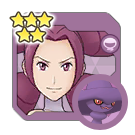
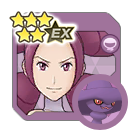
Add v2.27.0

Changed region(s): [[0.2963, 0.0889, 0.5926, 0.3556], [0.2963, 0.0889, 0.3259, 0.1185]]

diff --git a/js/syncpairs.js b/js/syncpairs.js
@@ -774,7 +774,36 @@ export const SYNCPAIRS = [
 		"tags": [
 			"Gen Pool - First-time Scout (Until 2.21.0 update)",
 			"isWoman",
-			"Gym Leader"
+			"Gym Leader",
+			"Multiple Units"
+		]
+	},
+	{
+		"dexNumber": "012",
+		"trainerName": "Whitney",
+		"trainerAlt": "Holiday (2022)",
+		"pokemonNumber": "0586",
+		"pokemonName": "Sawsbuck",
+		"pokemonGender": "♀",
+		"pokemonForm": ["Winter Form"],
+		"pokemonType": "Normal",
+		"pokemonWeak": "Fighting",
+		"syncPairRole": "Tech",
+		"syncPairRarity": "5",
+		"releaseDate": "2022-12-16",
+		"syncPairRegion": "2Johto",
+		"images": [
+			"Sync Pairs/0Y_SEASONALS/0Z_0A_HOLIDAY_2022_Whitney.png",
+			"Sync Pairs/0Y_SEASONALS/0Z_0A_HOLIDAY_2022_Whitney_EX.png"
+		],
+		"tags": [
+			"isWoman",
+			"Limited Sync Pair Scout",
+			"Multiple Units",
+			"Seasonal",
+			"Terrain",
+			"Gym Leader",
+			"Holiday"
 		]
 	},
 	{
@@ -3073,6 +3102,37 @@ export const SYNCPAIRS = [
 		]
 	},
 	{
+		"dexNumber": "071",
+		"trainerName": "Calem",
+		"trainerAlt": "Champion",
+		"pokemonNumber": "0658",
+		"pokemonName": "Greninja",
+		"pokemonGender": "♂",
+		"pokemonForm": [],
+		"pokemonType": "Dark",
+		"pokemonWeak": "Bug",
+		"syncPairRole": "Support",
+		"syncPairRarity": "5",
+		"releaseDate": "2022-12-02",
+		"syncPairRegion": "6Kalos",
+		"images": [
+			"Sync Pairs/0F_KALOS/0F_KALOS_0A-01_ChampCalem.png",
+			"Sync Pairs/0F_KALOS/0F_KALOS_0A-01_ChampCalem_EX.png"
+		],
+		"tags": [
+			"Buddy Move",
+			"isMan",
+			"Limited Sync Pair Scout",
+			"Master Fair",
+			"Multiple Units",
+			"Weather",
+			"Wish Zone",
+			"Main Character",
+			"Champion",
+			"Shiny"
+		]
+	},
+	{
 		"dexNumber": "072",
 		"trainerName": "Glacia",
 		"trainerAlt": "",
@@ -3917,7 +3977,8 @@ export const SYNCPAIRS = [
 		"releaseDate": "2020-03-19",
 		"syncPairRegion": "4Sinnoh",
 		"images": [
-			"Sync Pairs/0D_SINNOH/0D_SINNOH_0B-05_Fantina.png"
+			"Sync Pairs/0D_SINNOH/0D_SINNOH_0B-05_Fantina.png",
+			"Sync Pairs/0D_SINNOH/0D_SINNOH_0B-05_Fantina_EX.png"
 		],
 		"tags": [
 			"Gen Pool",
@@ -4234,6 +4295,34 @@ export const SYNCPAIRS = [
 		]
 	},
 	{
+		"dexNumber": "093",
+		"trainerName": "Jasmine",
+		"trainerAlt": "Holiday (2022)",
+		"pokemonNumber": "0181",
+		"pokemonName": "Ampharos",
+		"pokemonGender": "♀",
+		"pokemonForm": ["Mega Evolution"],
+		"pokemonType": "Electric",
+		"pokemonWeak": "Ground",
+		"syncPairRole": "Support",
+		"syncPairRarity": "5",
+		"releaseDate": "2022-12-14",
+		"syncPairRegion": "2Johto",
+		"images": [
+			"Sync Pairs/0Y_SEASONALS/0Z_0A_HOLIDAY_2022_Jasmine.png",
+			"Sync Pairs/0Y_SEASONALS/0Z_0A_HOLIDAY_2022_Jasmine_EX.png"
+		],
+		"tags": [
+			"isWoman",
+			"Limited Sync Pair Scout",
+			"Mega Evolution",
+			"Multiple Units",
+			"Seasonal",
+			"Gym Leader",
+			"Holiday"
+		]
+	},
+	{
 		"dexNumber": "094",
 		"trainerName": "Dawn",
 		"trainerAlt": "",
@@ -4438,6 +4527,59 @@ export const SYNCPAIRS = [
 			"isWoman",
 			"Main Character",
 			"Legendary"
+		]
+	},
+	{
+		"dexNumber": "096",
+		"trainerName": "Serena",
+		"trainerAlt": "Champion",
+		"pokemonNumber": "0658",
+		"pokemonName": "Greninja",
+		"pokemonGender": "♂",
+		"pokemonForm": [],
+		"pokemonType": "Water",
+		"pokemonWeak": "Electric",
+		"syncPairRole": "Tech",
+		"syncPairRarity": "5",
+		"releaseDate": "2022-11-30",
+		"syncPairRegion": "6Kalos",
+		"images": [
+			"Sync Pairs/0F_KALOS/0F_KALOS_0A-02_ChampSerena.png",
+			"Sync Pairs/0F_KALOS/0F_KALOS_0A-02_ChampSerena_EX.png"
+		],
+		"tags": [
+			"Buddy Move",
+			"isWoman",
+			"Limited Sync Pair Scout",
+			"Master Fair",
+			"Multiple Units",
+			"Main Character",
+			"Champion"
+		]
+	},
+	{
+		"dexNumber": "096",
+		"trainerName": "Serena",
+		"trainerAlt": "Lodge",
+		"pokemonNumber": "0661",
+		"pokemonName": "Fletchling",
+		"pokemonGender": "♀",
+		"pokemonForm": [],
+		"pokemonType": "Flying",
+		"pokemonWeak": "Electric",
+		"syncPairRole": "Tech",
+		"syncPairRarity": "5",
+		"releaseDate": "2022-11-30",
+		"syncPairRegion": "6Kalos",
+		"images": [
+			"Sync Pairs/0F_KALOS/0F_KALOS_0A-02_TL_Serena.png",
+			"Sync Pairs/5Star/0F_KALOS_0A-02_TL_Serena_5Star.png"
+		],
+		"tags": [
+			"isWoman",
+			"Multiple Units",
+			"Trainer Lodge",
+			"Main Character"
 		]
 	},
 	{

diff --git a/index.html b/index.html
@@ -26,6 +26,7 @@
 			<div id="btnEggs"></div>
 
 			<ul id="news">
+				<li><span>2022-11-28</span><span>Add v2.27.0</span></li>
 				<li><span>2022-10-27</span><span>Add v2.26.0</span></li>
 				<li><span>2022-10-25</span><span>→&nbsp;&nbsp;&nbsp;Add new filters<br>→&nbsp;&nbsp;&nbsp;Add new options&nbsp;&nbsp;:&nbsp;&nbsp;visibility options,<br>lock mode, filter by release date interval,<br>current star buttons, ...</span></li>
 				<li><span>2022-10-10</span><span>Add the possibility to mark a sync pair<br>as a favorite / custom tag</span></li>
